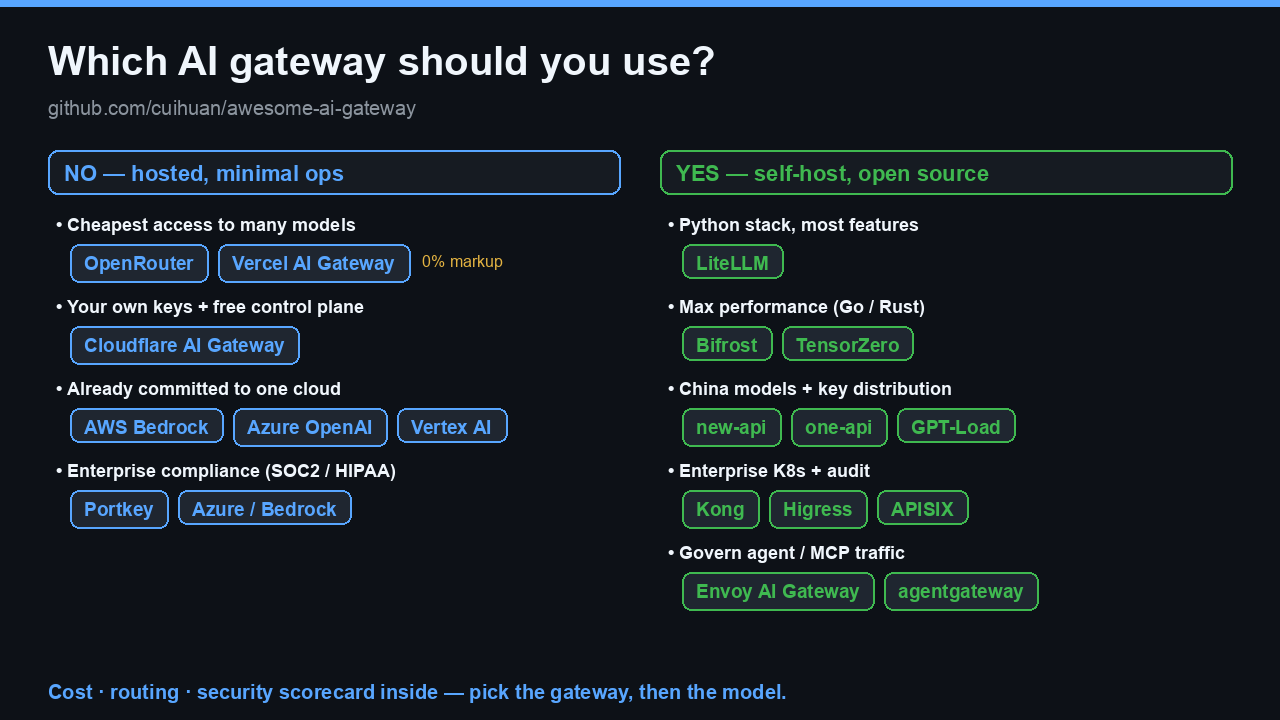
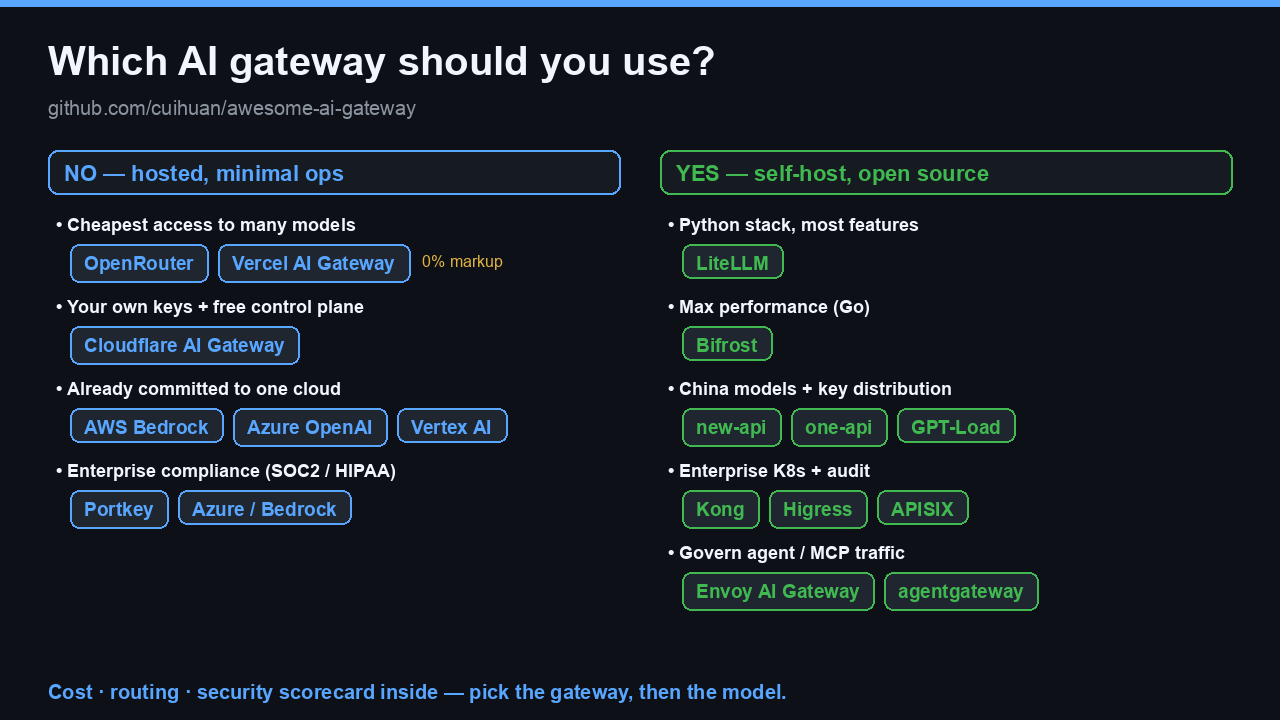
data: demote archived TensorZero from live recommendations
Confirmed via GitHub API that tensorzero/tensorzero is archived (read-only,
last push 2026-06-11; company wound down). Per the "label stale projects" rule:

- Remove it from the decision tree's "raw performance" / "evals+observability"
  recommendations (text tree + shareable PNG, EN + 中文) and the FAQ pick.
- Keep it in the directory (Quick comparison, Self-hosted, Observability) but
  clearly labeled "⚠️ archived June 2026 — Apache-2.0 code + forks remain".

Recommending an archived repo undercuts the list's credibility; labeling it is
the honest treatment.

Changed region(s): [[0.5938, 0.3972, 0.7188, 0.5194]]

diff --git a/scripts/make_decision_tree.py b/scripts/make_decision_tree.py
@@ -87,7 +87,7 @@ _TREE_EN = {
             "kind": "self",
             "leaves": [
                 {"cond": "Python stack, most features", "picks": ["LiteLLM"], "tag": None},
-                {"cond": "Max performance (Go / Rust)", "picks": ["Bifrost", "TensorZero"], "tag": None},
+                {"cond": "Max performance (Go)", "picks": ["Bifrost"], "tag": None},
                 {"cond": "China models + key distribution", "picks": ["new-api", "one-api", "GPT-Load"], "tag": None},
                 {"cond": "Enterprise K8s + audit", "picks": ["Kong", "Higress", "APISIX"], "tag": None},
                 {"cond": "Govern agent / MCP traffic", "picks": ["Envoy AI Gateway", "agentgateway"], "tag": None},
@@ -114,7 +114,7 @@ _TREE_ZH = {
             "kind": "self",
             "leaves": [
                 {"cond": "Python 栈、功能最全", "picks": ["LiteLLM"], "tag": None},
-                {"cond": "追求性能（Go / Rust）", "picks": ["Bifrost", "TensorZero"], "tag": None},
+                {"cond": "追求性能（Go）", "picks": ["Bifrost"], "tag": None},
                 {"cond": "国产模型、Key 分发计费", "picks": ["new-api", "one-api", "GPT-Load"], "tag": None},
                 {"cond": "企业 K8s、审计合规", "picks": ["Kong", "Higress", "APISIX"], "tag": None},
                 {"cond": "治理 Agent / MCP 流量", "picks": ["Envoy AI Gateway", "agentgateway"], "tag": None},

diff --git a/README.md b/README.md
@@ -55,7 +55,7 @@
 ## Which gateway should I use?
 
 <p align="center">
-  <img src="assets/decision-tree.png" alt="Decision tree: which AI gateway should you use? Hosted (OpenRouter, Vercel, Cloudflare, Bedrock, Azure, Vertex, Portkey) vs self-hosted open source (LiteLLM, Bifrost, TensorZero, new-api, one-api, GPT-Load, Kong, Higress, APISIX, Envoy AI Gateway, agentgateway), chosen by what you need." width="840">
+  <img src="assets/decision-tree.png" alt="Decision tree: which AI gateway should you use? Hosted (OpenRouter, Vercel, Cloudflare, Bedrock, Azure, Vertex, Portkey) vs self-hosted open source (LiteLLM, Bifrost, new-api, one-api, GPT-Load, Kong, Higress, APISIX, Envoy AI Gateway, agentgateway), chosen by what you need." width="840">
 </p>
 
 > _At a glance — the complete decision tree (more branches) is right below._
@@ -71,8 +71,8 @@ Do you want to self-host?
 │
 └─ YES — self-hosted / open source
     ├─ Python stack, broadest features ─────────▶ LiteLLM
-    ├─ Raw performance (Go/Rust/TS) ────────────▶ Bifrost · TensorZero · Portkey Gateway
-    ├─ Built-in evals + observability ──────────▶ TensorZero · Helicone
+    ├─ Raw performance (Go/Rust/TS) ────────────▶ Bifrost · Portkey Gateway
+    ├─ Built-in evals + observability ──────────▶ Helicone · Portkey Gateway
     ├─ Key distribution / billing / CN models ──▶ new-api · one-api · GPT-Load
     ├─ Enterprise K8s, audit, guardrails ───────▶ Kong · Higress · APISIX · Envoy AI Gateway
     └─ Governing AI agents & MCP traffic ───────▶ agentgateway · Lunar.dev
@@ -127,7 +127,7 @@ Stars auto-refresh daily. ✅ built-in · ➕ via plugin/paid tier · ❌ not av
 | [Kong AI Gateway](https://github.com/Kong/kong) | OSS API gateway | <!--s:Kong/kong-->⭐ 43.6k<!--/s--> | Apache-2.0 | ✅ | ✅ | ✅ semantic | ✅ | ✅ |
 | [Apache APISIX](https://github.com/apache/apisix) | OSS API gateway | <!--s:apache/apisix-->⭐ 16.7k<!--/s--> | Apache-2.0 | ✅ | ✅ | ➕ | ➕ | ➕ |
 | [Portkey Gateway](https://github.com/Portkey-AI/gateway) | OSS gateway + SaaS | <!--s:Portkey-AI/gateway-->⭐ 12.1k<!--/s--> | MIT | ✅ 1600+ | ✅ | ✅ | ✅ 50+ | ➕ SaaS |
-| [TensorZero](https://github.com/tensorzero/tensorzero) | OSS LLMOps stack | <!--s:tensorzero/tensorzero-->⭐ 11.6k<!--/s--> | Apache-2.0 | ✅ | ✅ | ✅ | ➕ | ✅ |
+| [TensorZero](https://github.com/tensorzero/tensorzero) | OSS LLMOps · ⚠️ archived '26 | <!--s:tensorzero/tensorzero-->⭐ 11.6k<!--/s--> | Apache-2.0 | ✅ | ✅ | ✅ | ➕ | ✅ |
 | [Higress](https://github.com/higress-group/higress) | OSS AI-native gateway | <!--s:higress-group/higress-->⭐ 8.7k<!--/s--> | Apache-2.0 | ✅ | ✅ | ✅ | ✅ | ✅ |
 | [GPT-Load](https://github.com/tbphp/gpt-load) | OSS key-pool proxy | <!--s:tbphp/gpt-load-->⭐ 6.2k<!--/s--> | MIT | ✅ | ✅ key rotation | ❌ | ❌ | ➕ |
 | [Bifrost](https://github.com/maximhq/bifrost) | OSS gateway (Go) | <!--s:maximhq/bifrost-->⭐ 5.8k<!--/s--> | Apache-2.0 | ✅ | ✅ adaptive | ✅ | ✅ | ✅ |
@@ -162,7 +162,7 @@ Stars auto-refresh daily. ✅ built-in · ➕ via plugin/paid tier · ❌ not av
 
 - [LiteLLM](https://github.com/BerriAI/litellm) <!--s:BerriAI/litellm-->⭐ 50.4k<!--/s--> — The default choice: Python SDK + proxy server speaking OpenAI format to 100+ providers, with virtual keys, budgets, load balancing and guardrails.
 - [Portkey Gateway](https://github.com/Portkey-AI/gateway) <!--s:Portkey-AI/gateway-->⭐ 12.1k<!--/s--> — Fast TypeScript gateway (1,600+ models, 50+ guardrails) that also powers Portkey's commercial LLMOps platform.
-- [TensorZero](https://github.com/tensorzero/tensorzero) <!--s:tensorzero/tensorzero-->⭐ 11.6k<!--/s--> — Rust gateway unified with observability, evals, experimentation and optimization — built around a data/feedback flywheel.
+- [TensorZero](https://github.com/tensorzero/tensorzero) <!--s:tensorzero/tensorzero-->⭐ 11.6k<!--/s--> — ⚠️ **Archived June 2026** (company wound down; repo read-only, Apache-2.0 code + community forks remain). Rust gateway unified with observability, evals, experimentation and optimization.
 - [Bifrost](https://github.com/maximhq/bifrost) <!--s:maximhq/bifrost-->⭐ 5.8k<!--/s--> — Go gateway from Maxim AI claiming ~50x LiteLLM throughput; adaptive load balancing, cluster mode, MCP support.
 - [Helicone](https://github.com/Helicone/helicone) <!--s:Helicone/helicone-->⭐ 5.8k<!--/s--> — Observability-first platform (YC W23) with a Rust [ai-gateway](https://github.com/Helicone/ai-gateway) <!--s:Helicone/ai-gateway-->⭐ 601<!--/s-->.
 - [Plano](https://github.com/katanemo/plano) <!--s:katanemo/plano-->⭐ 6.6k<!--/s--> — AI-native proxy and data plane for agents (formerly Arch Gateway / archgw).
@@ -235,7 +235,7 @@ Stars auto-refresh daily. ✅ built-in · ➕ via plugin/paid tier · ❌ not av
 *Pain point: "Who spent what, on which model, and why did quality drop?"*
 
 - [Helicone](https://github.com/Helicone/helicone) <!--s:Helicone/helicone-->⭐ 5.8k<!--/s--> — Logs, costs, sessions, prompt experiments; one-line proxy integration.
-- [TensorZero](https://github.com/tensorzero/tensorzero) <!--s:tensorzero/tensorzero-->⭐ 11.6k<!--/s--> — Gateway + observability + evals in one Rust binary, data stays in your ClickHouse.
+- [TensorZero](https://github.com/tensorzero/tensorzero) <!--s:tensorzero/tensorzero-->⭐ 11.6k<!--/s--> — ⚠️ **Archived June 2026** (repo read-only; Apache-2.0 code + community forks remain). Gateway + observability + evals in one Rust binary, data stays in your ClickHouse.
 - [Portkey](https://portkey.ai) — Full LLMOps suite over its OSS gateway: traces, budgets, prompt management.
 - [vLLora (ex-LangDB)](https://github.com/vllora/vllora) <!--s:vllora/vllora-->⭐ 804<!--/s--> — Agent debugging and observability from the LangDB team.
 - [Braintrust Proxy](https://github.com/braintrustdata/braintrust-proxy) <!--s:braintrustdata/braintrust-proxy-->⭐ 398<!--/s--> — Caching proxy wired into Braintrust evals.
@@ -329,7 +329,7 @@ A proxy between your code and LLM providers: one OpenAI-compatible endpoint and 
 A *router* decides *which model* gets each request (e.g. cheap vs flagship); a *gateway* is the full proxy layer (auth, caching, observability, guardrails) that usually *includes* routing. See [smart routing](#-smart-routing--model-selection).
 
 **What's the best open-source AI gateway?**
-[LiteLLM](https://github.com/BerriAI/litellm) is the default for breadth (Python, 100+ providers). For raw performance pick [Bifrost](https://github.com/maximhq/bifrost) (Go) or [TensorZero](https://github.com/tensorzero/tensorzero) (Rust); for enterprise K8s pick [Kong](https://github.com/Kong/kong) or [Higress](https://github.com/higress-group/higress). Full list under [self-hosted](#-self-hosted-open-source).
+[LiteLLM](https://github.com/BerriAI/litellm) is the default for breadth (Python, 100+ providers). For raw performance pick [Bifrost](https://github.com/maximhq/bifrost) (Go); for enterprise K8s pick [Kong](https://github.com/Kong/kong) or [Higress](https://github.com/higress-group/higress). Full list under [self-hosted](#-self-hosted-open-source).
 
 **LiteLLM vs OpenRouter — which should I use?**
 OpenRouter is hosted (zero ops, ~5.5% fee, 400+ models); LiteLLM is self-hosted (your keys, your infra, $0 markup). Hosted to start, self-host when volume justifies it. Cost math in the [evaluation set](BENCHMARKS.md#part-3--real-world-token-cost-computed).

diff --git a/README.zh-CN.md b/README.zh-CN.md
@@ -55,7 +55,7 @@
 ## 我该用哪个网关？
 
 <p align="center">
-  <img src="assets/decision-tree.zh-CN.png" alt="决策树：我该用哪个 AI 网关？托管（OpenRouter、Vercel、Cloudflare、Bedrock、Azure、Vertex、Portkey）vs 自托管开源（LiteLLM、Bifrost、TensorZero、new-api、one-api、GPT-Load、Kong、Higress、APISIX、Envoy AI Gateway、agentgateway），按你的需求来选。" width="840">
+  <img src="assets/decision-tree.zh-CN.png" alt="决策树：我该用哪个 AI 网关？托管（OpenRouter、Vercel、Cloudflare、Bedrock、Azure、Vertex、Portkey）vs 自托管开源（LiteLLM、Bifrost、new-api、one-api、GPT-Load、Kong、Higress、APISIX、Envoy AI Gateway、agentgateway），按你的需求来选。" width="840">
 </p>
 
 > _速览版 —— 完整决策树（分支更全）就在下面。_
@@ -71,8 +71,8 @@
 │
 └─ 要部署 — 自托管 / 开源
     ├─ Python 技术栈、功能最全 ─────▶ LiteLLM
-    ├─ 追求极致性能（Go/Rust/TS）──▶ Bifrost · TensorZero · Portkey Gateway
-    ├─ 自带评测 + 可观测 ───────────▶ TensorZero · Helicone
+    ├─ 追求极致性能（Go/Rust/TS）──▶ Bifrost · Portkey Gateway
+    ├─ 自带评测 + 可观测 ───────────▶ Helicone · Portkey Gateway
     ├─ 国产模型、Key 分发/计费 ─────▶ new-api · one-api · GPT-Load
     ├─ 企业 K8s、审计、护栏 ────────▶ Kong · Higress · APISIX · Envoy AI Gateway
     └─ 治理 Agent / MCP 流量 ───────▶ agentgateway · Lunar.dev
@@ -127,7 +127,7 @@ resp = client.chat.completions.create(
 | [Kong AI Gateway](https://github.com/Kong/kong) | 开源 API 网关 | <!--s:Kong/kong-->⭐ 43.6k<!--/s--> | Apache-2.0 | ✅ | ✅ | ✅ 语义缓存 | ✅ | ✅ |
 | [Apache APISIX](https://github.com/apache/apisix) | 开源 API 网关 | <!--s:apache/apisix-->⭐ 16.7k<!--/s--> | Apache-2.0 | ✅ | ✅ | ➕ | ➕ | ➕ |
 | [Portkey Gateway](https://github.com/Portkey-AI/gateway) | 开源网关 + SaaS | <!--s:Portkey-AI/gateway-->⭐ 12.1k<!--/s--> | MIT | ✅ 1600+ | ✅ | ✅ | ✅ 50+ | ➕ SaaS |
-| [TensorZero](https://github.com/tensorzero/tensorzero) | 开源 LLMOps 全家桶 | <!--s:tensorzero/tensorzero-->⭐ 11.6k<!--/s--> | Apache-2.0 | ✅ | ✅ | ✅ | ➕ | ✅ |
+| [TensorZero](https://github.com/tensorzero/tensorzero) | 开源 LLMOps · ⚠️ 已归档'26 | <!--s:tensorzero/tensorzero-->⭐ 11.6k<!--/s--> | Apache-2.0 | ✅ | ✅ | ✅ | ➕ | ✅ |
 | [Higress](https://github.com/higress-group/higress) | 开源 AI 原生网关 | <!--s:higress-group/higress-->⭐ 8.7k<!--/s--> | Apache-2.0 | ✅ | ✅ | ✅ | ✅ | ✅ |
 | [GPT-Load](https://github.com/tbphp/gpt-load) | 开源密钥池代理 | <!--s:tbphp/gpt-load-->⭐ 6.2k<!--/s--> | MIT | ✅ | ✅ 密钥轮询 | ❌ | ❌ | ➕ |
 | [Bifrost](https://github.com/maximhq/bifrost) | 开源网关（Go） | <!--s:maximhq/bifrost-->⭐ 5.8k<!--/s--> | Apache-2.0 | ✅ | ✅ 自适应 | ✅ | ✅ | ✅ |
@@ -161,7 +161,7 @@ resp = client.chat.completions.create(
 
 - [LiteLLM](https://github.com/BerriAI/litellm) <!--s:BerriAI/litellm-->⭐ 50.4k<!--/s--> — 默认之选：Python SDK + 代理服务，以 OpenAI 格式打通 100+ 厂商，带虚拟 Key、预算、负载均衡与护栏。
 - [Portkey Gateway](https://github.com/Portkey-AI/gateway) <!--s:Portkey-AI/gateway-->⭐ 12.1k<!--/s--> — 高速 TypeScript 网关（1600+ 模型、50+ 护栏），同时是 Portkey 商业 LLMOps 平台的底座。
-- [TensorZero](https://github.com/tensorzero/tensorzero) <!--s:tensorzero/tensorzero-->⭐ 11.6k<!--/s--> — Rust 网关 + 可观测 + 评测 + 实验优化一体，围绕数据飞轮设计。
+- [TensorZero](https://github.com/tensorzero/tensorzero) <!--s:tensorzero/tensorzero-->⭐ 11.6k<!--/s--> — ⚠️ **2026 年 6 月已归档**（公司关停；仓库只读，Apache-2.0 代码与社区分支尚存）。Rust 网关 + 可观测 + 评测 + 实验优化一体。
 - [Bifrost](https://github.com/maximhq/bifrost) <!--s:maximhq/bifrost-->⭐ 5.8k<!--/s--> — Maxim AI 出品的 Go 网关，号称比 LiteLLM 快约 50 倍；自适应负载均衡、集群模式、支持 MCP。
 - [Helicone](https://github.com/Helicone/helicone) <!--s:Helicone/helicone-->⭐ 5.8k<!--/s--> — 可观测优先的平台（YC W23），配套 Rust [ai-gateway](https://github.com/Helicone/ai-gateway) <!--s:Helicone/ai-gateway-->⭐ 601<!--/s-->。
 - [Plano](https://github.com/katanemo/plano) <!--s:katanemo/plano-->⭐ 6.6k<!--/s--> — 面向 Agent 的 AI 原生代理/数据面（原名 Arch Gateway / archgw）。
@@ -234,7 +234,7 @@ resp = client.chat.completions.create(
 *痛点："谁在哪个模型上花了多少钱？质量为什么降了？"*
 
 - [Helicone](https://github.com/Helicone/helicone) <!--s:Helicone/helicone-->⭐ 5.8k<!--/s--> — 日志、成本、会话、Prompt 实验；一行代码接入。
-- [TensorZero](https://github.com/tensorzero/tensorzero) <!--s:tensorzero/tensorzero-->⭐ 11.6k<!--/s--> — 网关+可观测+评测一体（Rust），数据留在你自己的 ClickHouse。
+- [TensorZero](https://github.com/tensorzero/tensorzero) <!--s:tensorzero/tensorzero-->⭐ 11.6k<!--/s--> — ⚠️ **2026 年 6 月已归档**（仓库只读，Apache-2.0 代码与社区分支尚存）。网关+可观测+评测一体（Rust），数据留在你自己的 ClickHouse。
 - [Portkey](https://portkey.ai) — 基于其开源网关的完整 LLMOps：链路追踪、预算、Prompt 管理。
 - [vLLora（原 LangDB）](https://github.com/vllora/vllora) <!--s:vllora/vllora-->⭐ 804<!--/s--> — LangDB 团队的 Agent 调试与可观测工具。
 - [Braintrust Proxy](https://github.com/braintrustdata/braintrust-proxy) <!--s:braintrustdata/braintrust-proxy-->⭐ 398<!--/s--> — 带缓存的代理，与 Braintrust 评测打通。
@@ -328,7 +328,7 @@ resp = client.chat.completions.create(
 *路由*决定每个请求*走哪个模型*（如便宜款 vs 旗舰款）；*网关*是完整的代理层（鉴权、缓存、可观测、护栏），通常*包含*路由。见[智能路由](#-智能路由与模型选择)。
 
 **最好的开源 AI 网关是哪个？**
-[LiteLLM](https://github.com/BerriAI/litellm) 功能最全（Python，100+ 厂商）；追求性能选 [Bifrost](https://github.com/maximhq/bifrost)（Go）或 [TensorZero](https://github.com/tensorzero/tensorzero)（Rust）；企业 K8s 选 [Kong](https://github.com/Kong/kong) 或 [Higress](https://github.com/higress-group/higress)。完整列表见[自托管开源](#-自托管开源)。
+[LiteLLM](https://github.com/BerriAI/litellm) 功能最全（Python，100+ 厂商）；追求性能选 [Bifrost](https://github.com/maximhq/bifrost)（Go）；企业 K8s 选 [Kong](https://github.com/Kong/kong) 或 [Higress](https://github.com/higress-group/higress)。完整列表见[自托管开源](#-自托管开源)。
 
 **LiteLLM 和 OpenRouter 怎么选？**
 OpenRouter 是托管（零运维、约 5.5% 手续费、400+ 模型）；LiteLLM 是自托管（Key 在你手里、零加价）。先用托管，量大了再自托管。成本对比见[评测集](BENCHMARKS.zh-CN.md#第三部分--真实-token-成本实测脚本计算)。